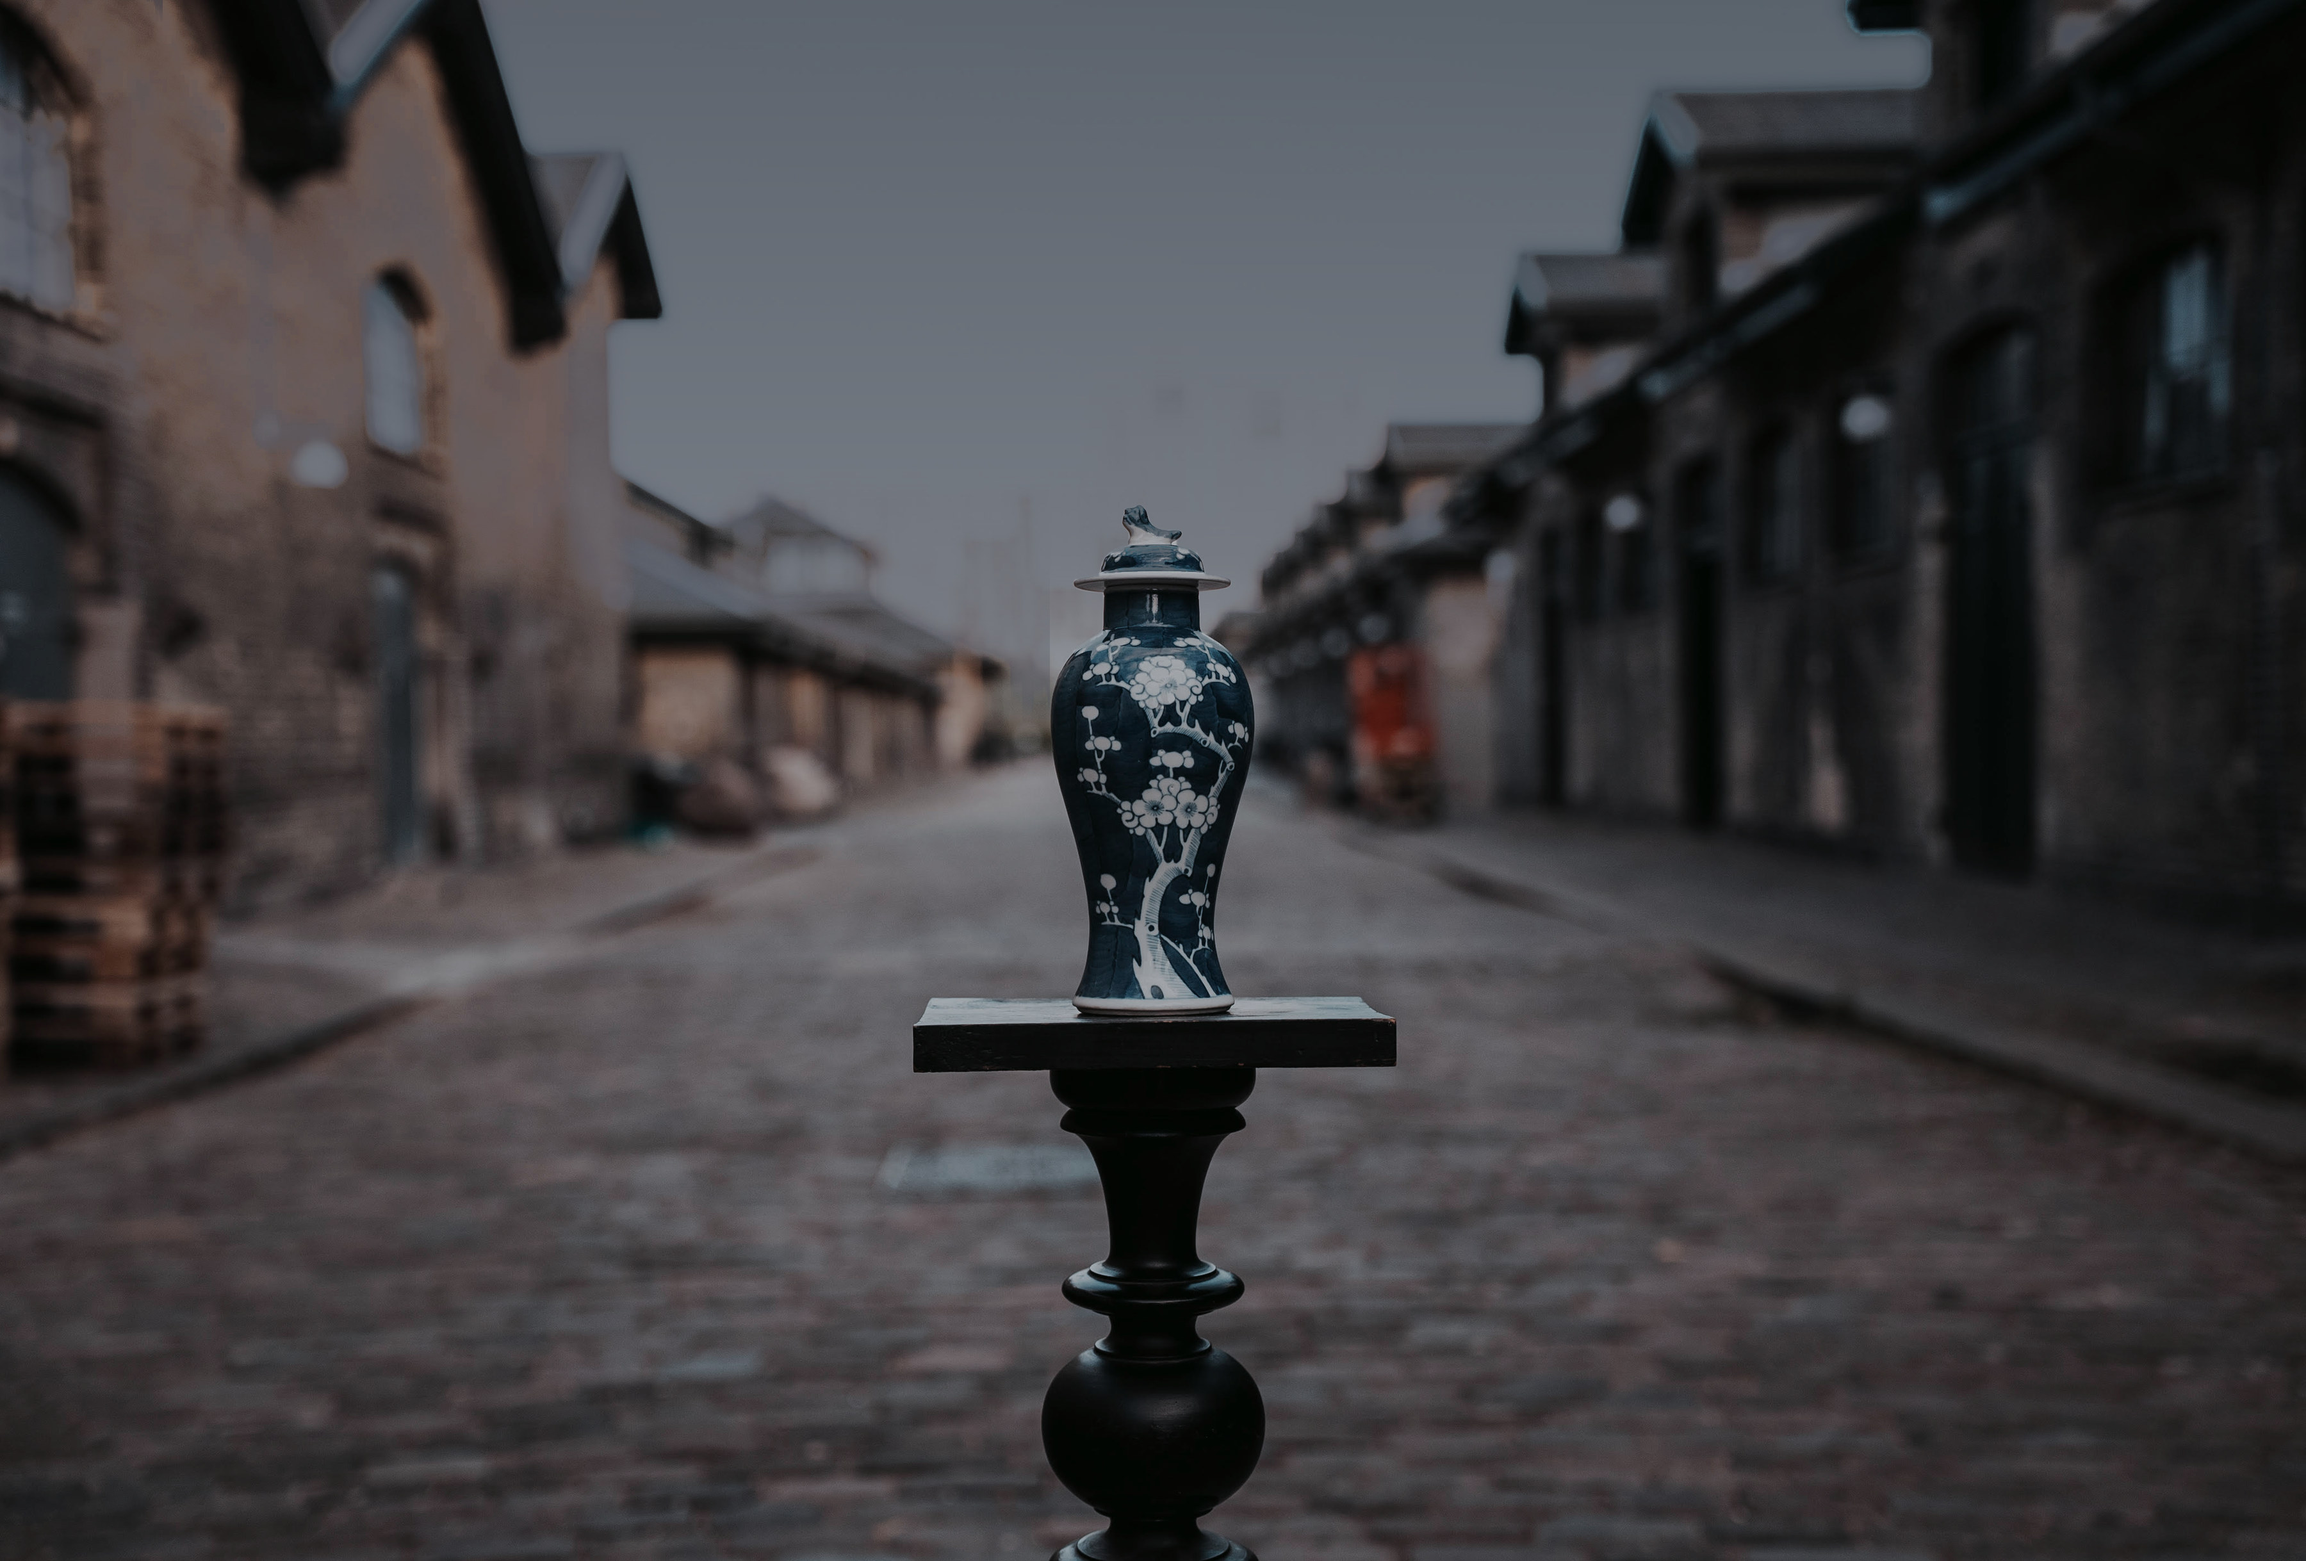
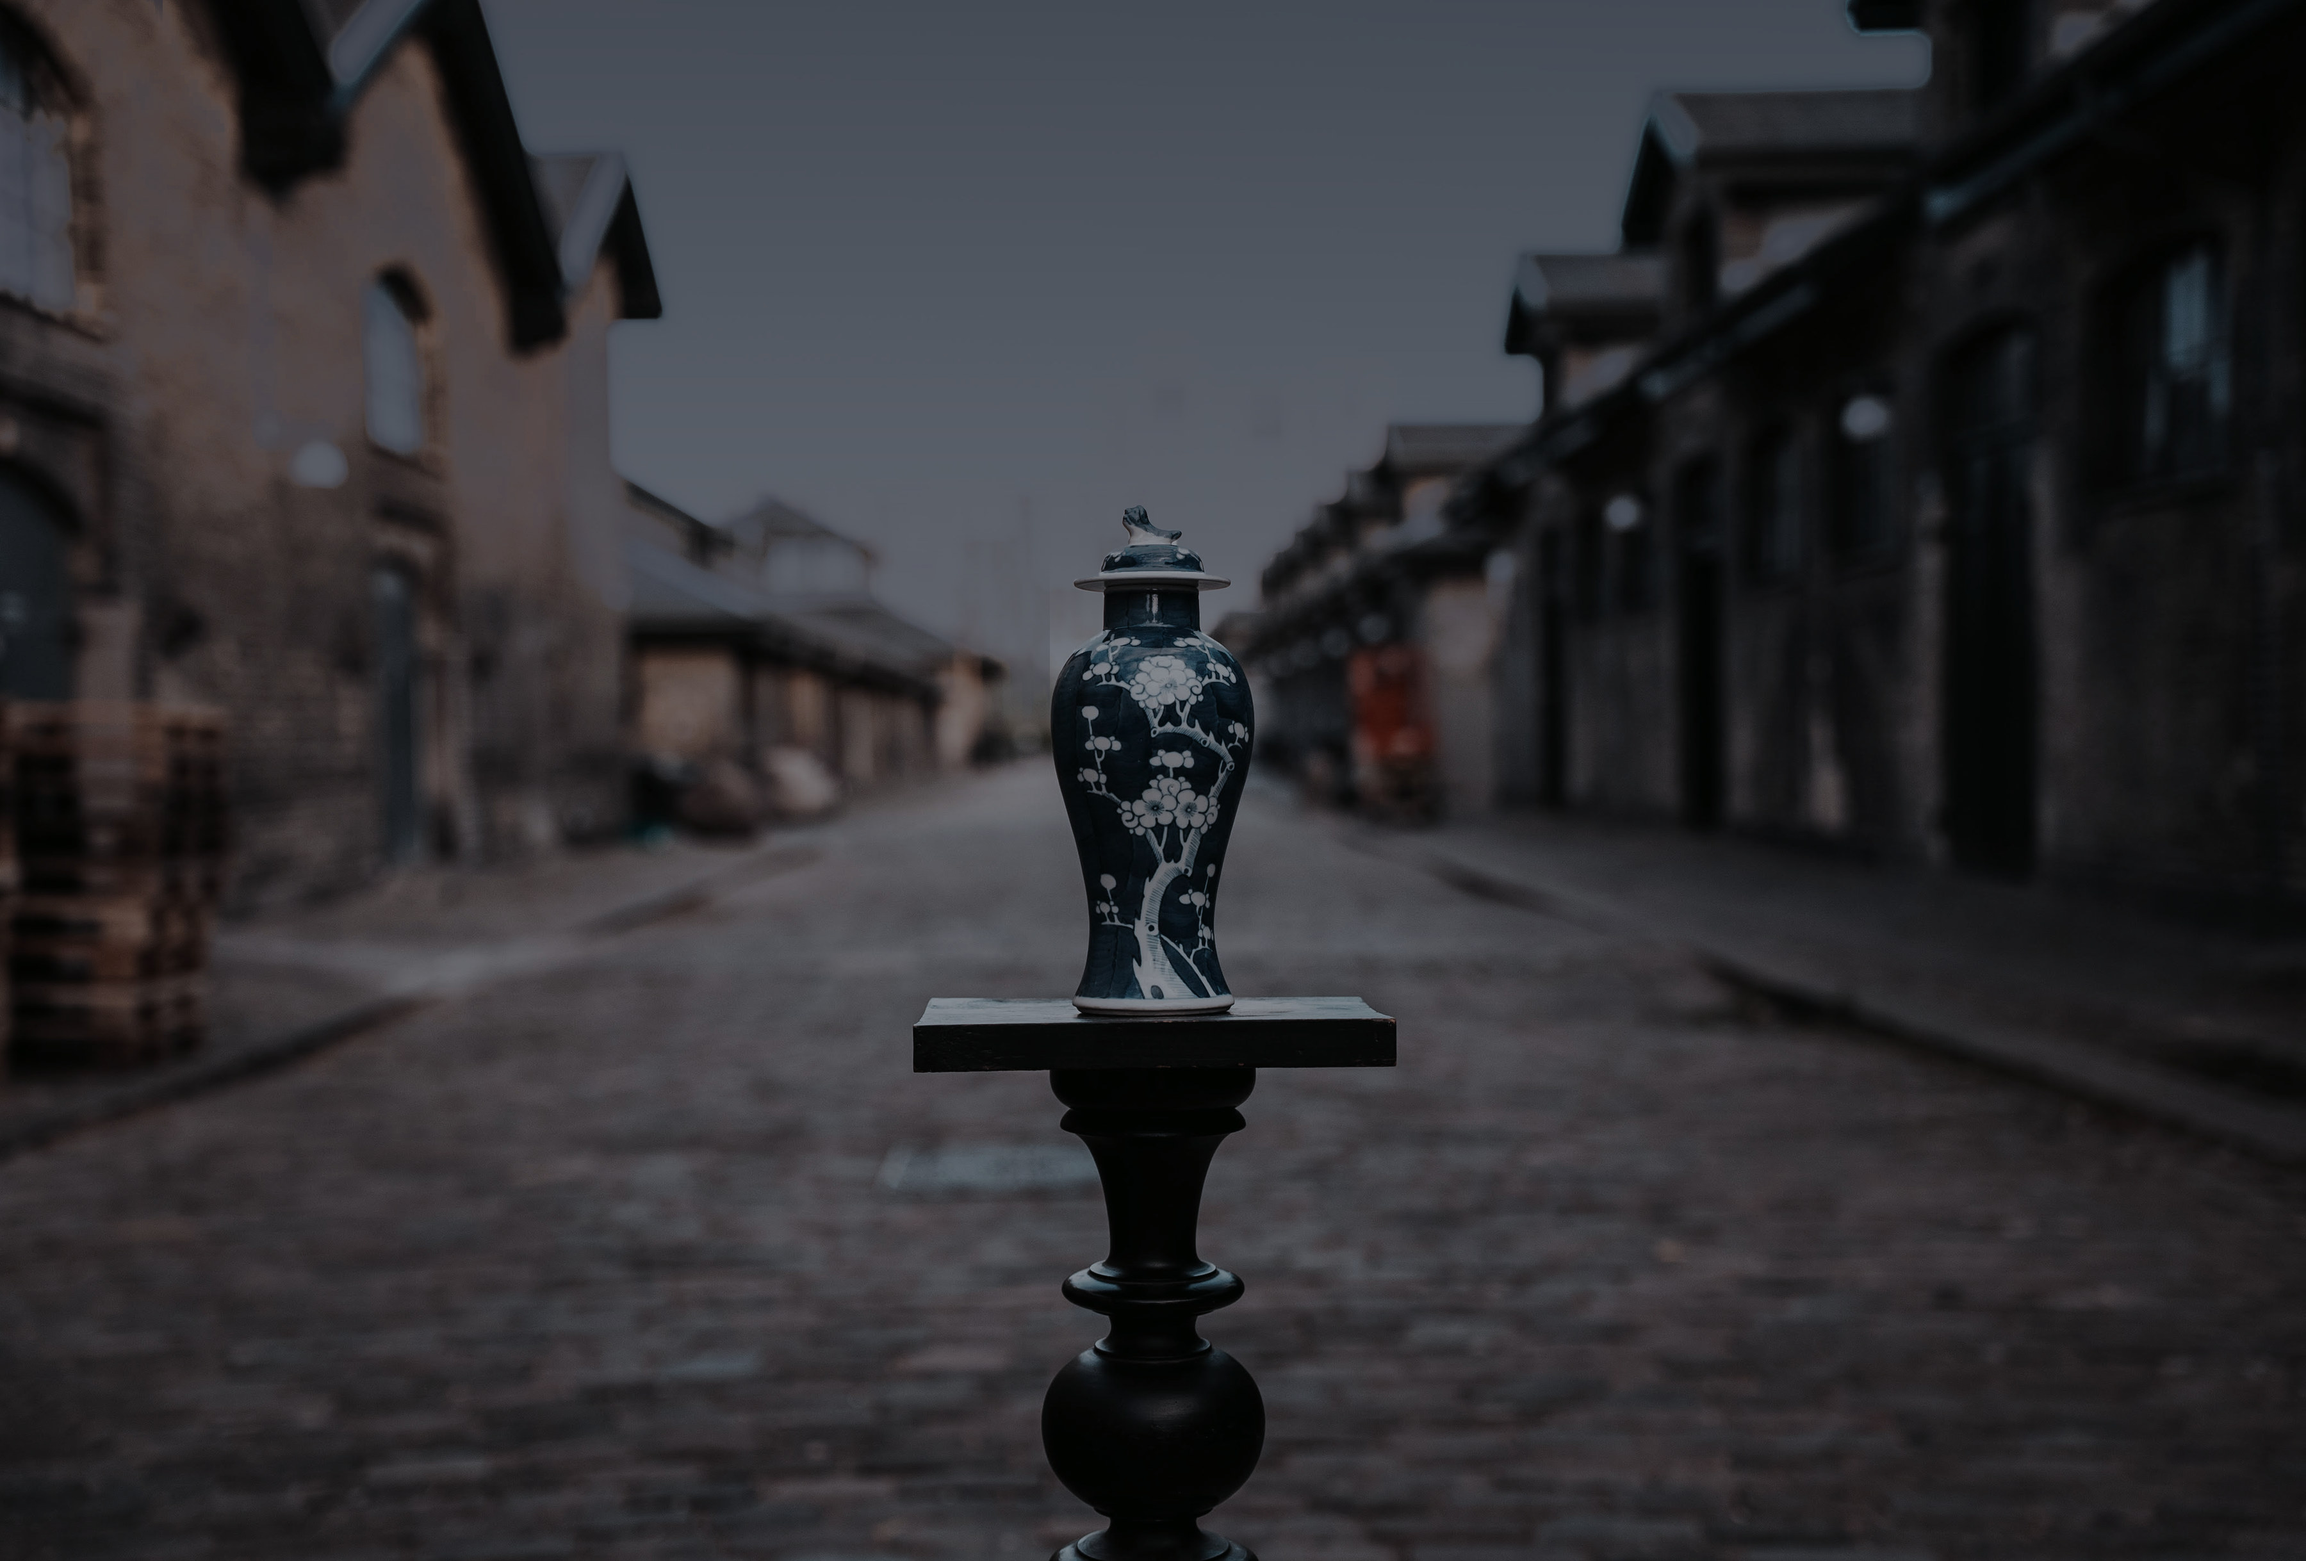
More night in the grade; lid rattles constantly (envelope floor raised)

diff --git a/src/components/Stage.tsx b/src/components/Stage.tsx
@@ -20,9 +20,9 @@ const pct = (v: number) => `${(v * 100).toFixed(4)}%`
 export default function Stage({ onReady }: { onReady: () => void }) {
   const lidRef = useRef<HTMLDivElement | null>(null)
 
-  // A very mild rattle, as if the lid is about to lift: fractions of a pixel,
-  // hinged at its base so the top trembles more than the rim, with a slow
-  // swell-and-settle envelope so it never reads as a loop.
+  // A mild constant rattle, as if the lid is about to lift: fractions of a
+  // pixel, hinged at its base so the top trembles more than the rim. The
+  // envelope only breathes a little, so the lid NEVER stands still.
   useEffect(() => {
     const reduced = window.matchMedia('(prefers-reduced-motion: reduce)').matches
     let raf = 0
@@ -30,7 +30,7 @@ export default function Stage({ onReady }: { onReady: () => void }) {
       const el = lidRef.current
       if (el) {
         const t = performance.now() / 1000
-        const amp = (0.55 + 0.45 * Math.sin(t * 0.7)) * (reduced ? 0.4 : 1)
+        const amp = (0.85 + 0.15 * Math.sin(t * 0.7)) * (reduced ? 0.4 : 1)
         const unit = Math.max(0.4, window.innerHeight * 0.0005)
         const dy = amp * (Math.sin(t * 34) * 0.7 + Math.sin(t * 47 + 1.3) * 0.4) * unit
         const dx = amp * Math.sin(t * 41 + 0.7) * 0.25 * unit
